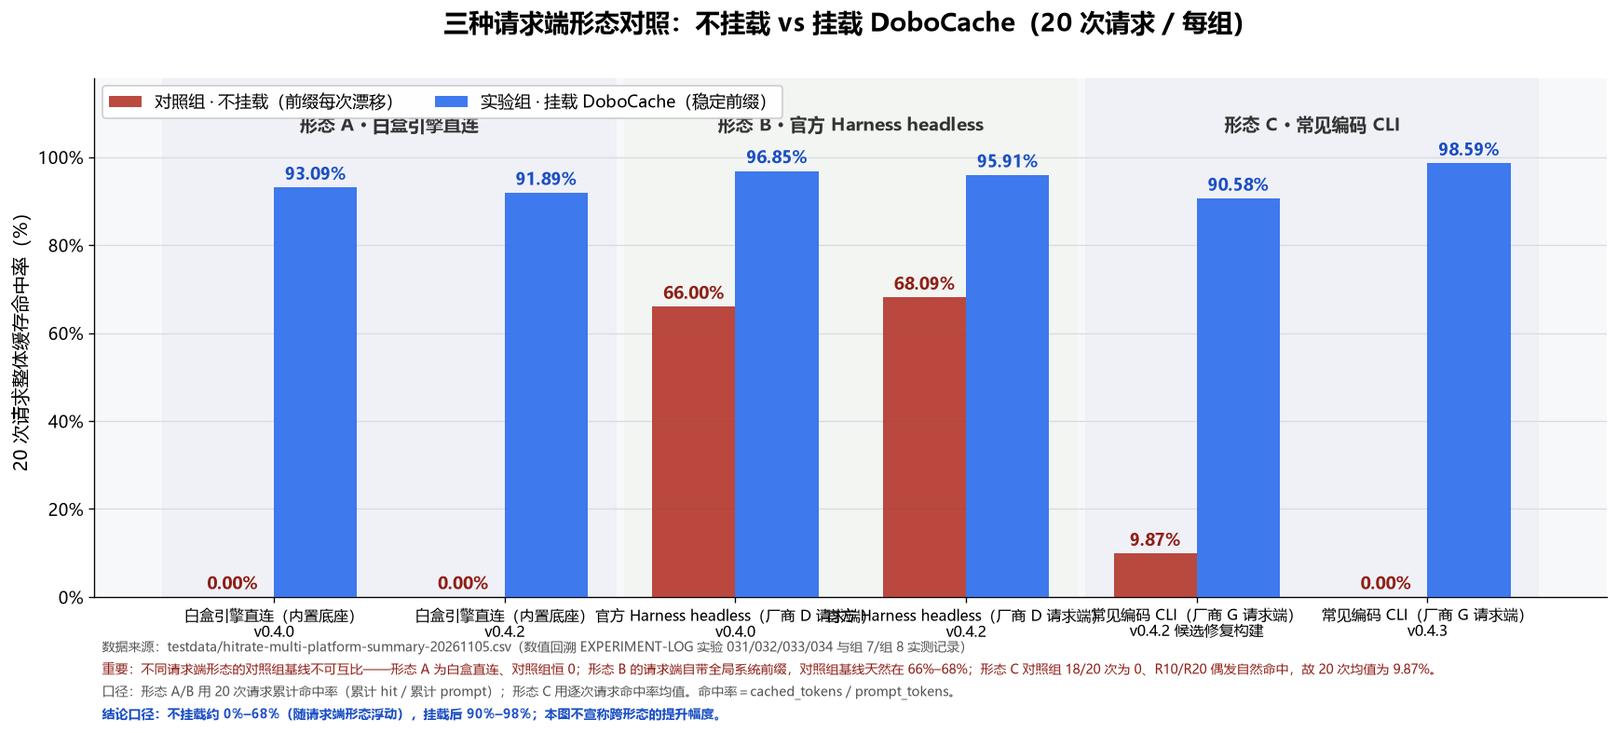
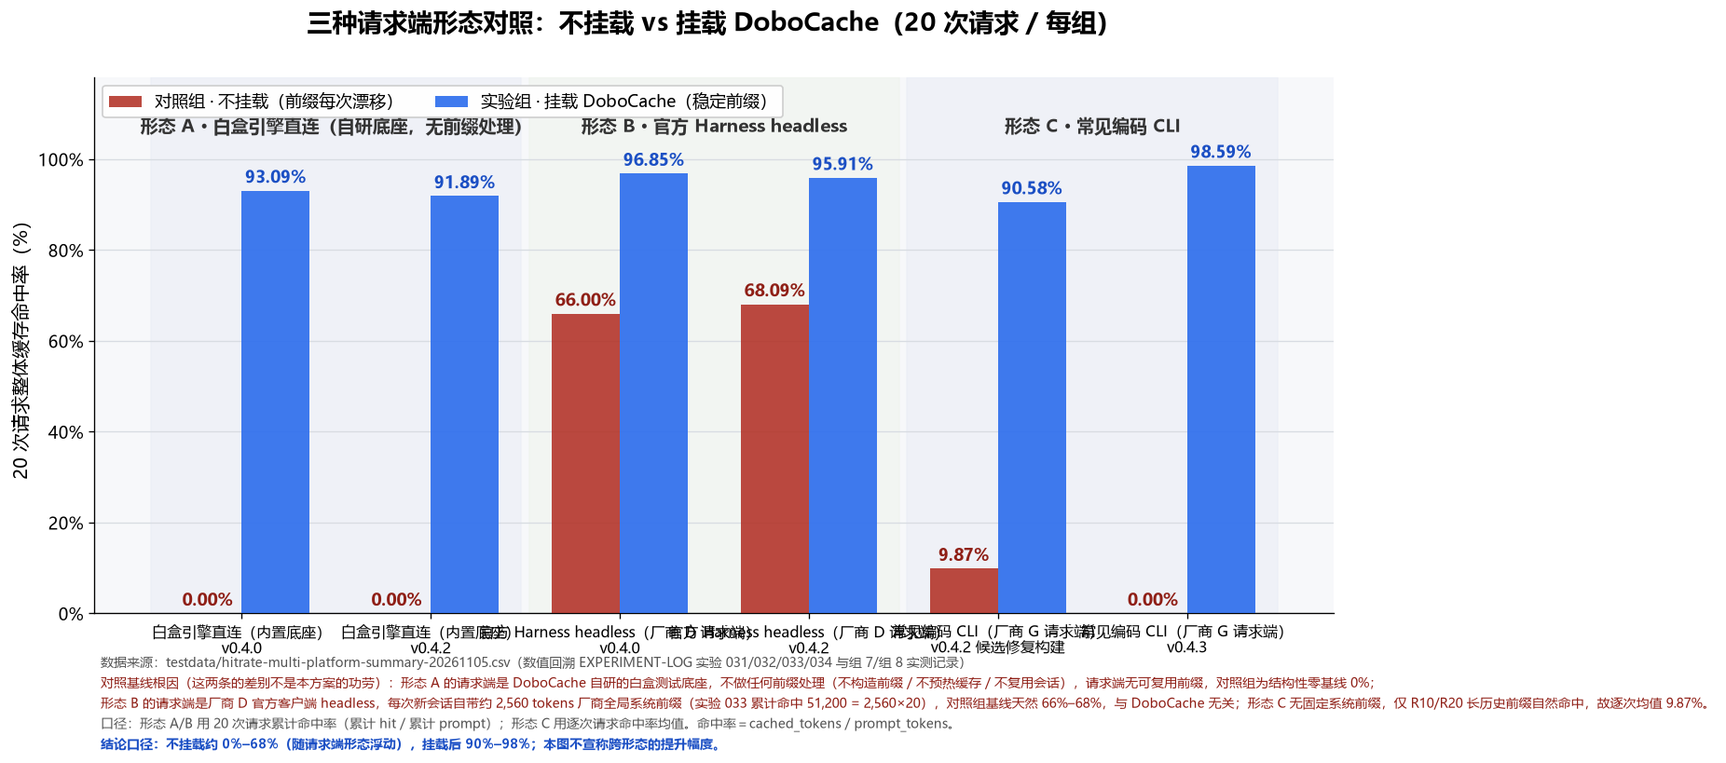
docs: explain why form-A control baseline is a structural zero (self-built whitebox base does no prefix handling), clarify official-client system prefix basis

diff --git a/release/scripts/hitrate-comparison.py b/release/scripts/hitrate-comparison.py
@@ -208,7 +208,7 @@ def fig_forms():
     xs = list(range(len(rows)))
     w = 0.36
 
-    fig, ax = plt.subplots(figsize=(15, 8.2), dpi=120)
+    fig, ax = plt.subplots(figsize=(15, 9.0), dpi=120)
     fig.patch.set_facecolor("white")
     ax.set_facecolor("#f7f8fa")
 
@@ -237,7 +237,7 @@ def fig_forms():
         right = max(idx) + 0.48
         ax.axvspan(left, right, color="#e9edf5" if code in ("A", "C") else "#eef3ec",
                    alpha=0.55, zorder=0)
-        ax.annotate({"A": "形态 A · 白盒引擎直连", "B": "形态 B · 官方 Harness headless",
+        ax.annotate({"A": "形态 A · 白盒引擎直连（自研底座，无前缀处理）", "B": "形态 B · 官方 Harness headless",
                      "C": "形态 C · 常见编码 CLI"}[code],
                     xy=((left + right) / 2, 106), ha="center", fontsize=11.5,
                     color="#333333", fontweight="bold")
@@ -256,19 +256,22 @@ def fig_forms():
     ax.legend(loc="upper left", fontsize=10.5, framealpha=0.96, ncol=2)
 
     note1 = ("数据来源：testdata/hitrate-multi-platform-summary-20261105.csv（数值回溯 EXPERIMENT-LOG 实验 031/032/033/034 与组 7/组 8 实测记录）")
-    note2 = ("重要：不同请求端形态的对照组基线不可互比——形态 A 为白盒直连、对照组恒 0；"
-             "形态 B 的请求端自带全局系统前缀，对照组基线天然在 66%–68%；形态 C 对照组 18/20 次为 0、"
-             "R10/R20 偶发自然命中，故 20 次均值为 9.87%。")
+    note2a = ("对照基线根因（这两条的差别不是本方案的功劳）：形态 A 的请求端是 DoboCache 自研的白盒测试底座，"
+              "不做任何前缀处理（不构造前缀 / 不预热缓存 / 不复用会话），请求端无可复用前缀，对照组为结构性零基线 0%；")
+    note2b = ("形态 B 的请求端是厂商 D 官方客户端 headless，每次新会话自带约 2,560 tokens 厂商全局系统前缀"
+              "（实验 033 累计命中 51,200 = 2,560×20），对照组基线天然 66%–68%，与 DoboCache 无关；"
+              "形态 C 无固定系统前缀，仅 R10/R20 长历史前缀自然命中，故逐次均值 9.87%。")
     note3 = ("口径：形态 A/B 用 20 次请求累计命中率（累计 hit / 累计 prompt）；形态 C 用逐次请求命中率均值。"
              "命中率＝cached_tokens / prompt_tokens。")
     note4 = "结论口径：不挂载约 0%–68%（随请求端形态浮动），挂载后 90%–98%；本图不宣称跨形态的提升幅度。"
-    ax.text(0.005, -0.105, note1, transform=ax.transAxes, fontsize=8.6, color="#555555")
-    ax.text(0.005, -0.148, note2, transform=ax.transAxes, fontsize=8.6, color="#8f1f16")
-    ax.text(0.005, -0.191, note3, transform=ax.transAxes, fontsize=8.6, color="#555555")
-    ax.text(0.005, -0.234, note4, transform=ax.transAxes, fontsize=8.6, color="#1b4fc4",
+    ax.text(0.005, -0.100, note1, transform=ax.transAxes, fontsize=8.4, color="#555555")
+    ax.text(0.005, -0.138, note2a, transform=ax.transAxes, fontsize=8.4, color="#8f1f16")
+    ax.text(0.005, -0.176, note2b, transform=ax.transAxes, fontsize=8.4, color="#8f1f16")
+    ax.text(0.005, -0.214, note3, transform=ax.transAxes, fontsize=8.4, color="#555555")
+    ax.text(0.005, -0.252, note4, transform=ax.transAxes, fontsize=8.4, color="#1b4fc4",
             fontweight="bold")
 
-    plt.tight_layout(rect=[0, 0.14, 1, 1])
+    plt.tight_layout(rect=[0, 0.17, 1, 1])
     fig.savefig(OUT_FORM, dpi=120, bbox_inches="tight", facecolor="white")
     plt.close(fig)
     print("saved:", OUT_FORM)

diff --git a/release/README.en.md b/release/README.en.md
@@ -113,11 +113,22 @@ How to read this — all three points matter together:
 
 **Zoom out one level: not-mounted is not always 0%.** The hit rate is not decided by "mounted or not" alone — how the requesting side builds its requests sets the control arm's starting point. The same mounting logic was run for 20 requests under three requesting-side forms:
 
+**First, what each requesting side actually is — this is the whole reason the control baselines differ:**
+
+| Form | Who the requesting side is | Does it do any prefix handling itself? | Why the control arm reads what it reads |
+|---|---|---|---|
+| A Whitebox engine, direct | **DoboCache's own whitebox test base** — a direct client we wrote ourselves for these experiments, not any official client | **No, none at all**: no prefix construction, no cache warm-up, no session reuse; each round sends only "task text + random noise" | 0 / 28,846 tokens over 20 requests. With nothing reusable in hand, the baseline is structurally **0.00%** — a **structural zero baseline**, not a cache that "collapsed" |
+| B Official Harness, headless | Vendor D's official client (headless mode) | **Yes, guaranteed by both client and provider**: every new session carries ~2,560 tokens of provider-side global system prefix | 51,200 / 77,576 tokens over 20 requests = **66.00%**; 51,200 is exactly 2,560 × 20, so you can verify that all of that 66% comes from the official prefix and owes nothing to DoboCache |
+| C Common coding CLI | A commercial coding client (vendor G side) | **Not fixed**: no global system prefix; hits only when long-history prefixes happen to stay stable | Group 8: zero on all 20; group 7: only R10 / R20 hit naturally, per-request mean 9.87% |
+
+In one sentence: **A's 0% means "this client has no prefix to hit in the first place" (our own base, deliberately doing nothing, used to measure a zero baseline); B's 66% means "the official client already has a prefix underneath". Neither figure is a DoboCache result.** Both starting points say the same thing: the control arm's height is set by **how much prefix handling the requesting side does itself**. Read this table horizontally, "mounted vs not mounted" within one form — never vertically as "whose control arm is higher", and never subtract percentages across forms to claim a gain.
+
+
 ![Three requesting-side forms: not mounted vs mounted](hitrate-comparison-platforms.png)
 
 | Requesting-side form | Version · source run | Control (not mounted) | Mounted (DoboCache) | Notes |
 |---|---|---|---|---|
-| A Whitebox engine, direct | v0.4.0 · exp 031 | 0.00% | 93.09% | The requesting side offers no native prefix reuse |
+| A Whitebox engine, direct | v0.4.0 · exp 031 | 0.00% | 93.09% | Our own whitebox base, no prefix handling at all (structural zero baseline) |
 | A Whitebox engine, direct | v0.4.2 · exp 032 | 0.00% | 91.89% | Same |
 | B Official Harness, headless | v0.4.0 · exp 033 | 66.00% | 96.85% | The requesting side ships ~2,560 tokens of global system-prefix cache; the control arm degrades 84.27% → 54.54% as noise accumulates |
 | B Official Harness, headless | v0.4.2 · exp 034 | 68.09% | 95.91% | Control baseline comes from the same provider-side system-prefix cache; the mounted arm holds per-round misses down to 135–426 tokens |

diff --git a/README.md b/README.md
@@ -118,11 +118,22 @@ server 共暴露 **8 个业务工具 + 1 个健康检查（`ping`）**，均为 
 
 **把视角拉高一层：不挂载并不总是 0%。** 命中率不是只由"挂不挂"决定，请求端自己怎么构造请求，决定了对照组的起点。同一套挂载逻辑换到三种请求端形态各跑 20 次：
 
+**先把三个请求端分别是什么讲清楚——对照组起点之所以差这么多，全在这里：**
+
+| 形态 | 请求端是谁 | 请求端自身是否做前缀处理 | 对照组为什么是这个数 |
+|---|---|---|---|
+| A 白盒引擎直连 | **DoboCache 自研的白盒测试底座**（为跑对照实验自己写的直连请求端，不是任何官方客户端） | **不做，一点都没做**：不构造前缀、不预热缓存、不复用会话，每轮只发「任务原文 + 随机噪音」 | 20 次累计命中 0 / 28,846 tokens。请求端手里没有任何可复用的前缀，基线因此恒为 **0.00%**，属**结构性零基线**，不是"缓存被打崩" |
+| B 官方 Harness headless | 厂商 D 的官方客户端（headless 模式） | **做，且由客户端与厂商侧共同保证**：每次新会话固定注入约 2,560 tokens 的厂商全局系统前缀 | 20 次累计命中 51,200 / 77,576 tokens = **66.00%**；51,200 正好等于 2,560 × 20，可自行验证这 66% 全部来自官方前缀，与 DoboCache 无关 |
+| C 常见编码 CLI | 某商业化编码客户端（厂商 G 请求端） | **不固定**：无全局系统前缀，只有历史长前缀恰好稳定时才偶发命中 | 组 8 全 20 次为 0；组 7 仅 R10 / R20 自然命中，逐次均值 9.87% |
+
+一句话讲明白：**A 的 0% 是"这个请求端本来就没有前缀可命中"（我们自己搭的底座，故意什么都不做，用来测零基线）；B 的 66% 是"官方客户端自带前缀垫在下面"。两者都不是 DoboCache 的作用结果。** 这三个起点只说明一件事——对照组的高度由**请求端自身的前缀处理能力**决定。所以本表只能横着读同一形态内的「挂 vs 不挂」，不能竖着比"谁的对照组更高"，更不能把跨形态百分比相减当作本方案的提升幅度。
+
+
 ![三种请求端形态对照：不挂载 vs 挂载](assets/hitrate-comparison-platforms.png)
 
 | 请求端形态 | 版本 · 实验来源 | 对照组（不挂载） | 实验组（挂载） | 说明 |
 |---|---|---|---|---|
-| A 白盒引擎直连 | v0.4.0 · 实验 031 | 0.00% | 93.09% | 请求端不提供任何原生前缀复用 |
+| A 白盒引擎直连 | v0.4.0 · 实验 031 | 0.00% | 93.09% | 自研白盒底座，未做任何前缀处理（结构性零基线） |
 | A 白盒引擎直连 | v0.4.2 · 实验 032 | 0.00% | 91.89% | 同上 |
 | B 官方 Harness headless | v0.4.0 · 实验 033 | 66.00% | 96.85% | 请求端自带约 2,560 tokens 全局系统前缀缓存；对照组随噪音累积由 84.27% 劣化到 54.54% |
 | B 官方 Harness headless | v0.4.2 · 实验 034 | 68.09% | 95.91% | 同批对照组基线同样来自厂商系统前缀缓存；实验组每轮未命中压至 135–426 tokens |

diff --git a/release/README.zh.md b/release/README.zh.md
@@ -114,11 +114,22 @@ server 共暴露 **8 个业务工具 + 1 个健康检查（`ping`）**，均为 
 
 **把视角拉高一层：不挂载并不总是 0%。** 命中率不是只由"挂不挂"决定，请求端自己怎么构造请求，决定了对照组的起点。同一套挂载逻辑换到三种请求端形态各跑 20 次：
 
+**先把三个请求端分别是什么讲清楚——对照组起点之所以差这么多，全在这里：**
+
+| 形态 | 请求端是谁 | 请求端自身是否做前缀处理 | 对照组为什么是这个数 |
+|---|---|---|---|
+| A 白盒引擎直连 | **DoboCache 自研的白盒测试底座**（为跑对照实验自己写的直连请求端，不是任何官方客户端） | **不做，一点都没做**：不构造前缀、不预热缓存、不复用会话，每轮只发「任务原文 + 随机噪音」 | 20 次累计命中 0 / 28,846 tokens。请求端手里没有任何可复用的前缀，基线因此恒为 **0.00%**，属**结构性零基线**，不是"缓存被打崩" |
+| B 官方 Harness headless | 厂商 D 的官方客户端（headless 模式） | **做，且由客户端与厂商侧共同保证**：每次新会话固定注入约 2,560 tokens 的厂商全局系统前缀 | 20 次累计命中 51,200 / 77,576 tokens = **66.00%**；51,200 正好等于 2,560 × 20，可自行验证这 66% 全部来自官方前缀，与 DoboCache 无关 |
+| C 常见编码 CLI | 某商业化编码客户端（厂商 G 请求端） | **不固定**：无全局系统前缀，只有历史长前缀恰好稳定时才偶发命中 | 组 8 全 20 次为 0；组 7 仅 R10 / R20 自然命中，逐次均值 9.87% |
+
+一句话讲明白：**A 的 0% 是"这个请求端本来就没有前缀可命中"（我们自己搭的底座，故意什么都不做，用来测零基线）；B 的 66% 是"官方客户端自带前缀垫在下面"。两者都不是 DoboCache 的作用结果。** 这三个起点只说明一件事——对照组的高度由**请求端自身的前缀处理能力**决定。所以本表只能横着读同一形态内的「挂 vs 不挂」，不能竖着比"谁的对照组更高"，更不能把跨形态百分比相减当作本方案的提升幅度。
+
+
 ![三种请求端形态对照：不挂载 vs 挂载](hitrate-comparison-platforms.png)
 
 | 请求端形态 | 版本 · 实验来源 | 对照组（不挂载） | 实验组（挂载） | 说明 |
 |---|---|---|---|---|
-| A 白盒引擎直连 | v0.4.0 · 实验 031 | 0.00% | 93.09% | 请求端不提供任何原生前缀复用 |
+| A 白盒引擎直连 | v0.4.0 · 实验 031 | 0.00% | 93.09% | 自研白盒底座，未做任何前缀处理（结构性零基线） |
 | A 白盒引擎直连 | v0.4.2 · 实验 032 | 0.00% | 91.89% | 同上 |
 | B 官方 Harness headless | v0.4.0 · 实验 033 | 66.00% | 96.85% | 请求端自带约 2,560 tokens 全局系统前缀缓存；对照组随噪音累积由 84.27% 劣化到 54.54% |
 | B 官方 Harness headless | v0.4.2 · 实验 034 | 68.09% | 95.91% | 同批对照组基线同样来自厂商系统前缀缓存；实验组每轮未命中压至 135–426 tokens |

diff --git a/CHANGELOG.md b/CHANGELOG.md
@@ -47,6 +47,12 @@
 - 边界：只在对话里多一行（约 15 tokens/张，且卡片默认 `quiet` 不出），**不写入 JSONL 日志**、不联网、不上报，统计口径与缓存行为零变化；`cf_report` 返回结构未改。
 - 单测新增 1 条回归（署名固定在最后一行、与其上一条分隔线相邻、版本与 `package.json` 一致）。
 
+### 跨形态对照口径补写（同版本追加）
+- 三形态对照表此前只写了「形态 A 对照组恒 0%」「形态 B 自带系统前缀」，**没讲清 A 的 0% 是我们自研白盒底座自身没有前缀处理所致**。本次补写根因：形态 A 的请求端是 DoboCache **自研的白盒测试底座**（非任何官方客户端），**不做任何前缀处理**（不构造前缀、不预热缓存、不复用会话），故对照组为**结构性零基线**；形态 B 是厂商 D 官方客户端 headless，每次新会话自带约 **2,560 tokens** 厂商全局系统前缀，实验 033 累计命中 **51,200 = 2,560 × 20**（分母 77,576），66% 全部来自官方前缀，与本方案无关。
+- 落地位置：主 README / `release/README.zh.md` / `release/README.en.md`（跨形态表前新增「三个请求端分别是谁」对照小节，A 行说明改为「自研白盒底座，未做任何前缀处理（结构性零基线）」）；`release/testdata/README.md` 口径说明新增第 5 条；`release/testdata/hitrate-regression-report-20261103.md` 第八节判读补为首条；`release/testdata/复跑说明.md` 跨形态读图注意；`release/FAQ-使用须知.md` 第五节；中英文社区帖各补一段。
+- `release/scripts/hitrate-comparison.py` 图 2 新增两行红色脚注讲清根因，形态 A 分组标注补「（自研底座，无前缀处理）」，并重绘 `assets/hitrate-comparison-platforms.png` 与 `release/hitrate-comparison-platforms.png`。
+- 口径不变：不挂载约 0%–68%（随请求端形态浮动），挂载后 90%–98%；跨形态不可相减，仅同形态内「挂 vs 不挂」可比。
+
 ## v0.4.6（2026-11-04）— 白盒报告改为默认关闭、命中率「未判定」语义修正、序号字段更名
 
 > 目标：白盒报告此前会随每次工具返回附带一张约 300 tokens 的卡片写入对话上下文，长期使用会白白推高成本；同时日志里的命中率字段在「未拿到厂商 usage」时会写成 0，容易被人读成「命中率 0%」。本版把这两处都改成了如实表达。**缓存核心算法未改动**（前缀冻结、对齐、分级准入、判定逻辑与 v0.4.4 一致）。

diff --git a/release/社区帖-English.md b/release/社区帖-English.md
@@ -58,7 +58,9 @@ Not a theoretical concern. I ran the same mounting logic for 20 requests under t
 | Official Harness, headless | v0.4.0 (033) / v0.4.2 (034) | 66.00% / 68.09% | 96.85% / 95.91% |
 | Common coding CLI | v0.4.2 candidate (group 7) / v0.4.3 (group 8) | 9.87% / 0.00% | 90.58% / 98.59% |
 
-The "official Harness" form ships ~2,560 tokens of provider-side global system-prefix cache per new session, so its control arm sits at 66%–68% for free. But don't envy it: in the v0.4.0 batch that arm degraded from 84.27% down to 54.54% as request noise accumulated — just as fragile, only starting higher.
+The "whitebox engine, direct" rows sit at 0% for a reason worth stating plainly: **that client is a whitebox test base I wrote myself** (not any official client), and **it deliberately does no prefix handling at all** — no prefix construction, no cache warm-up, no session reuse; each round sends only "task text + random noise". With no reusable prefix on hand, zero is the only possible reading. It is a **structural zero baseline**, not evidence that a provider's cache collapsed.
+
+The "official Harness" form ships ~2,560 tokens of provider-side global system-prefix cache per new session, so its control arm sits at 66%–68% for free (exp 033: 51,200 cached tokens = 2,560 × 20 — divide it yourself; the whole 66% is the official prefix, nothing to do with this plugin). But don't envy it: in the v0.4.0 batch that arm degraded from 84.27% down to 54.54% as request noise accumulated — just as fragile, only starting higher.
 
 So the accurate statement is: **not mounted ≈ 0%–68% (form-dependent); mounted 90%–98%.** Cross-form control values are not comparable — only "mounted vs not mounted" within the same form is. (Basis note: the A/B rows are aggregate over the 20 requests, the C rows are the mean of per-request rates — different estimators, so read them as magnitudes only. Every cell maps to a row of the shipped `testdata/hitrate-multi-platform-summary-20261105.csv` via its `source_exp` field, numerators and denominators included — recompute it yourself.)
 

diff --git a/release/testdata/README.md b/release/testdata/README.md
@@ -22,6 +22,11 @@
 2. **不报金额**：证据包内不含任何费用明细、计价明细与成本换算数据。README 与社区帖同样只报命中率与相对比例。
 3. **不宣称提升**：本组 数字用于说明"挂载 vs 不挂载"的差异；v0.4.4 相对 v0.4.3 命中行为一致，**不构成版本提升**。
 4. **同一形态内可比，跨形态不可混比**：请求端形态不同（白盒直连 / 官方 Harness headless / 编码 CLI），对照组的起点会天然不同（0% 与 66%–68% 就是形态差异，不是方案差异），因此只能比较**同一形态内部**的"挂 vs 不挂"；跨形态数字不得横向换算成"提升幅度"。
+5. **三种形态的对照组起点为何不同（根因）**：
+   - **形态 A 的 0% 是结构性零基线**：该请求端是 DoboCache **自研的白盒测试底座**，为跑对照实验自己写的直连客户端，**不做任何前缀处理**（不构造前缀、不预热缓存、不复用会话），每轮只发「任务原文 + 随机噪音」。请求端本身没有可复用前缀，命中自然恒为 0——不是"缓存被打崩"，也不是"对照组被打压"。
+   - **形态 B 的 66%–68% 来自官方前缀，与本方案无关**：该请求端是厂商 D 的官方客户端（headless），每次新会话自带约 **2,560 tokens 的厂商全局系统前缀**。实验 033 的累计命中 51,200 tokens 恰等于 **2,560 × 20**（分母 77,576），可直接在 CSV 同行的 token 列上除一遍验证。
+   - **形态 C 介于两者之间且不稳定**：编码 CLI 无固定系统前缀，仅当历史长前缀自然稳定时才偶发命中（组 7 的 R10 / R20；组 8 全 0）。
+   - 结论：**对照组的起点 = 请求端自身的前缀处理能力**。官方客户端有官方前缀垫底，自研白盒底座刻意什么都不做，编码 CLI 居中且飘。因此跨形态只能看量级，不能相减。
 
 ### 补充：这套证据覆盖多大、没覆盖什么
 

diff --git a/release/社区帖-中文.md b/release/社区帖-中文.md
@@ -63,7 +63,9 @@ DoboCache 干的就是把这几处"差一点点"补齐，并且**把每步改了
 | 官方 Harness headless | v0.4.0（033）/ v0.4.2（034） | 66.00% / 68.09% | 96.85% / 95.91% |
 | 常见编码 CLI | v0.4.2 候选（组 7）/ v0.4.3（组 8） | 9.87% / 0.00% | 90.58% / 98.59% |
 
-「官方 Harness」那种请求端每次新会话自带约 2,560 tokens 的厂商全局系统前缀缓存，什么都不做对照组就有 66%–68%。但别急着羡慕：在 v0.4.0 那批里它随请求噪音累积从 84.27% 一路劣化到 54.54%，缓存照样脆，只是起点高。
+"白盒引擎直连"那两行对照组是 0%，原因得说清楚：**那套请求端是我自己写的白盒测试底座**（不是任何官方客户端），**故意什么前缀处理都没做**——不构造前缀、不预热缓存、不复用会话，每轮只发「任务原文 + 随机噪音」。请求端手里压根没有可复用的前缀，命中当然是 0，这是**结构性零基线**，不是"厂商缓存被打崩"。
+
+「官方 Harness」那种请求端每次新会话自带约 2,560 tokens 的厂商全局系统前缀缓存，什么都不做对照组就有 66%–68%（实验 033 累计命中 51,200 tokens，正好 2,560 × 20，自己一除就知道这份 66% 全是官方前缀垫的，跟我这插件没关系）。但别急着羡慕：在 v0.4.0 那批里它随请求噪音累积从 84.27% 一路劣化到 54.54%，缓存照样脆，只是起点高。
 
 所以准确的说法是：**不挂载约 0%–68%（看请求端形态），挂载后 90%–98%**。跨形态的对照值不能互比，能比的只有同一形态里的"挂 vs 不挂"。
 

diff --git a/release/FAQ-使用须知.md b/release/FAQ-使用须知.md
@@ -303,6 +303,14 @@ Select-String -Path "$old\*.jsonl" -Pattern '::\d{13}' | Select-Object -First 5
 
 否则会出现"对照组天然命中 60%–80%"的情况（这在稳定长前缀的 CLI 场景里很常见），此时对比的不是"有没有 DoboCache"，而是"缓存窗口状态"。
 
+**还要认清一件事：对照组的起点由请求端决定，不是由本工具决定。** 本项目的三形态对照里：
+
+- **形态 A（白盒引擎直连）对照组恒 0%**——因为那套请求端是 DoboCache **自研的白盒测试底座**，**完全不做前缀处理**（不构造前缀、不预热、不复用会话），每轮只发「任务原文 + 噪音」。它测的是**零基线**，不是"厂商缓存很脆"；
+- **形态 B（官方 Harness headless）对照组 66%–68%**——因为该官方客户端每次新会话自带约 **2,560 tokens 的厂商全局系统前缀**，什么都不做也能命中；实验 033 的累计命中 51,200 tokens = 2,560 × 20，全部来自官方前缀，与 DoboCache 无关；
+- **形态 C（常见编码 CLI）** 无固定系统前缀，只在历史长前缀自然稳定时偶发命中。
+
+所以复现时**先说明你的请求端是谁、它自身有没有前缀处理**，否则两组数字放在一起没有意义。
+
 ## 六、命中率能不能换算成计费折扣？
 
 **不能，本文档也从不给出任何计费金额数字。** 原因：

diff --git a/release/testdata/复跑说明.md b/release/testdata/复跑说明.md
@@ -114,7 +114,7 @@ python ../scripts/hitrate-comparison.py
 - `../hitrate-comparison.png`：同一请求端形态下两个版本（组 7 / 组 8）的逐次请求曲线，含两条对照组曲线（组 8 对照组 20/20 全 0，组 7 对照组 R10/R20 自然命中），标注均值与区间；
 - `../hitrate-comparison-platforms.png`：三种请求端形态（白盒直连 / 官方 Harness headless / 编码 CLI）× 两个版本的汇总柱状图，用于说明**不挂载并不总是 0%**。
 
-> 跨形态读图注意：不同请求端形态的对照组起点天然不同（0% 与 66%–68% 属形态差异，不是方案差异），只能比较同一形态内部的"挂 vs 不挂"。
+> 跨形态读图注意：不同请求端形态的对照组起点天然不同，只能比较同一形态内部的"挂 vs 不挂"。**根因**：形态 A 的请求端是 DoboCache **自研的白盒测试底座**，**不做任何前缀处理**（不构造前缀 / 不预热 / 不复用会话），故对照组是**结构性零基线**；形态 B 的请求端是厂商 D 官方客户端 headless，每次新会话自带约 **2,560 tokens 厂商全局系统前缀**，对照组 66%–68% 全部来自这份官方前缀（51,200 = 2,560 × 20），与本方案无关；形态 C 无固定系统前缀，只在历史长前缀自然稳定时偶发命中。
 
 ---
 
